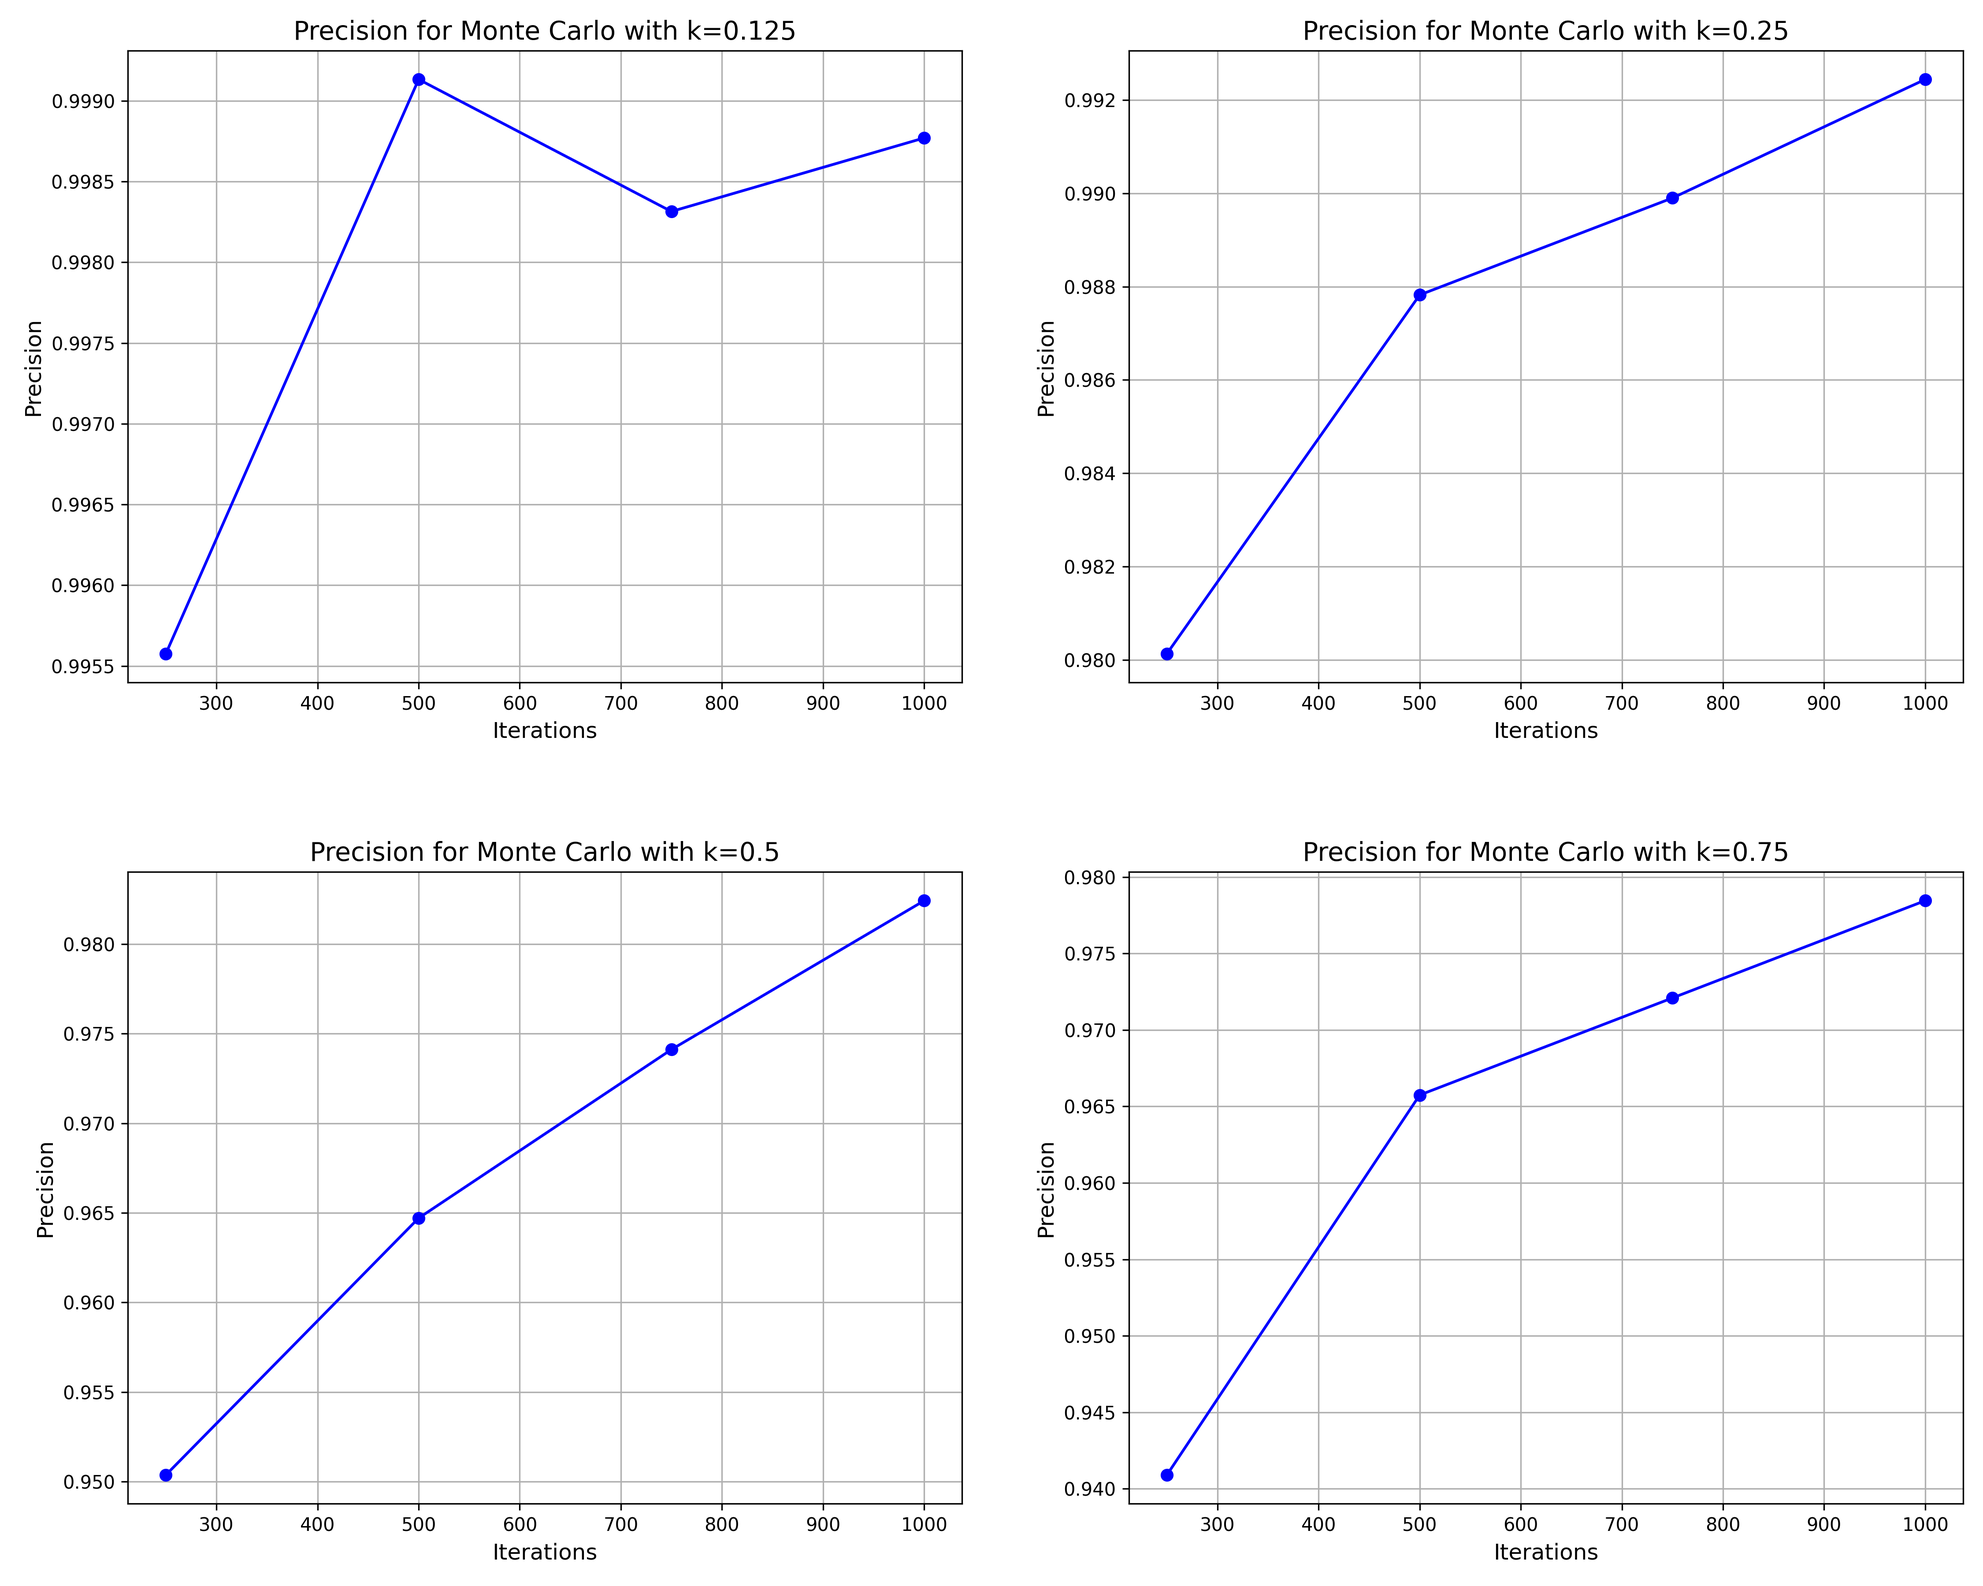
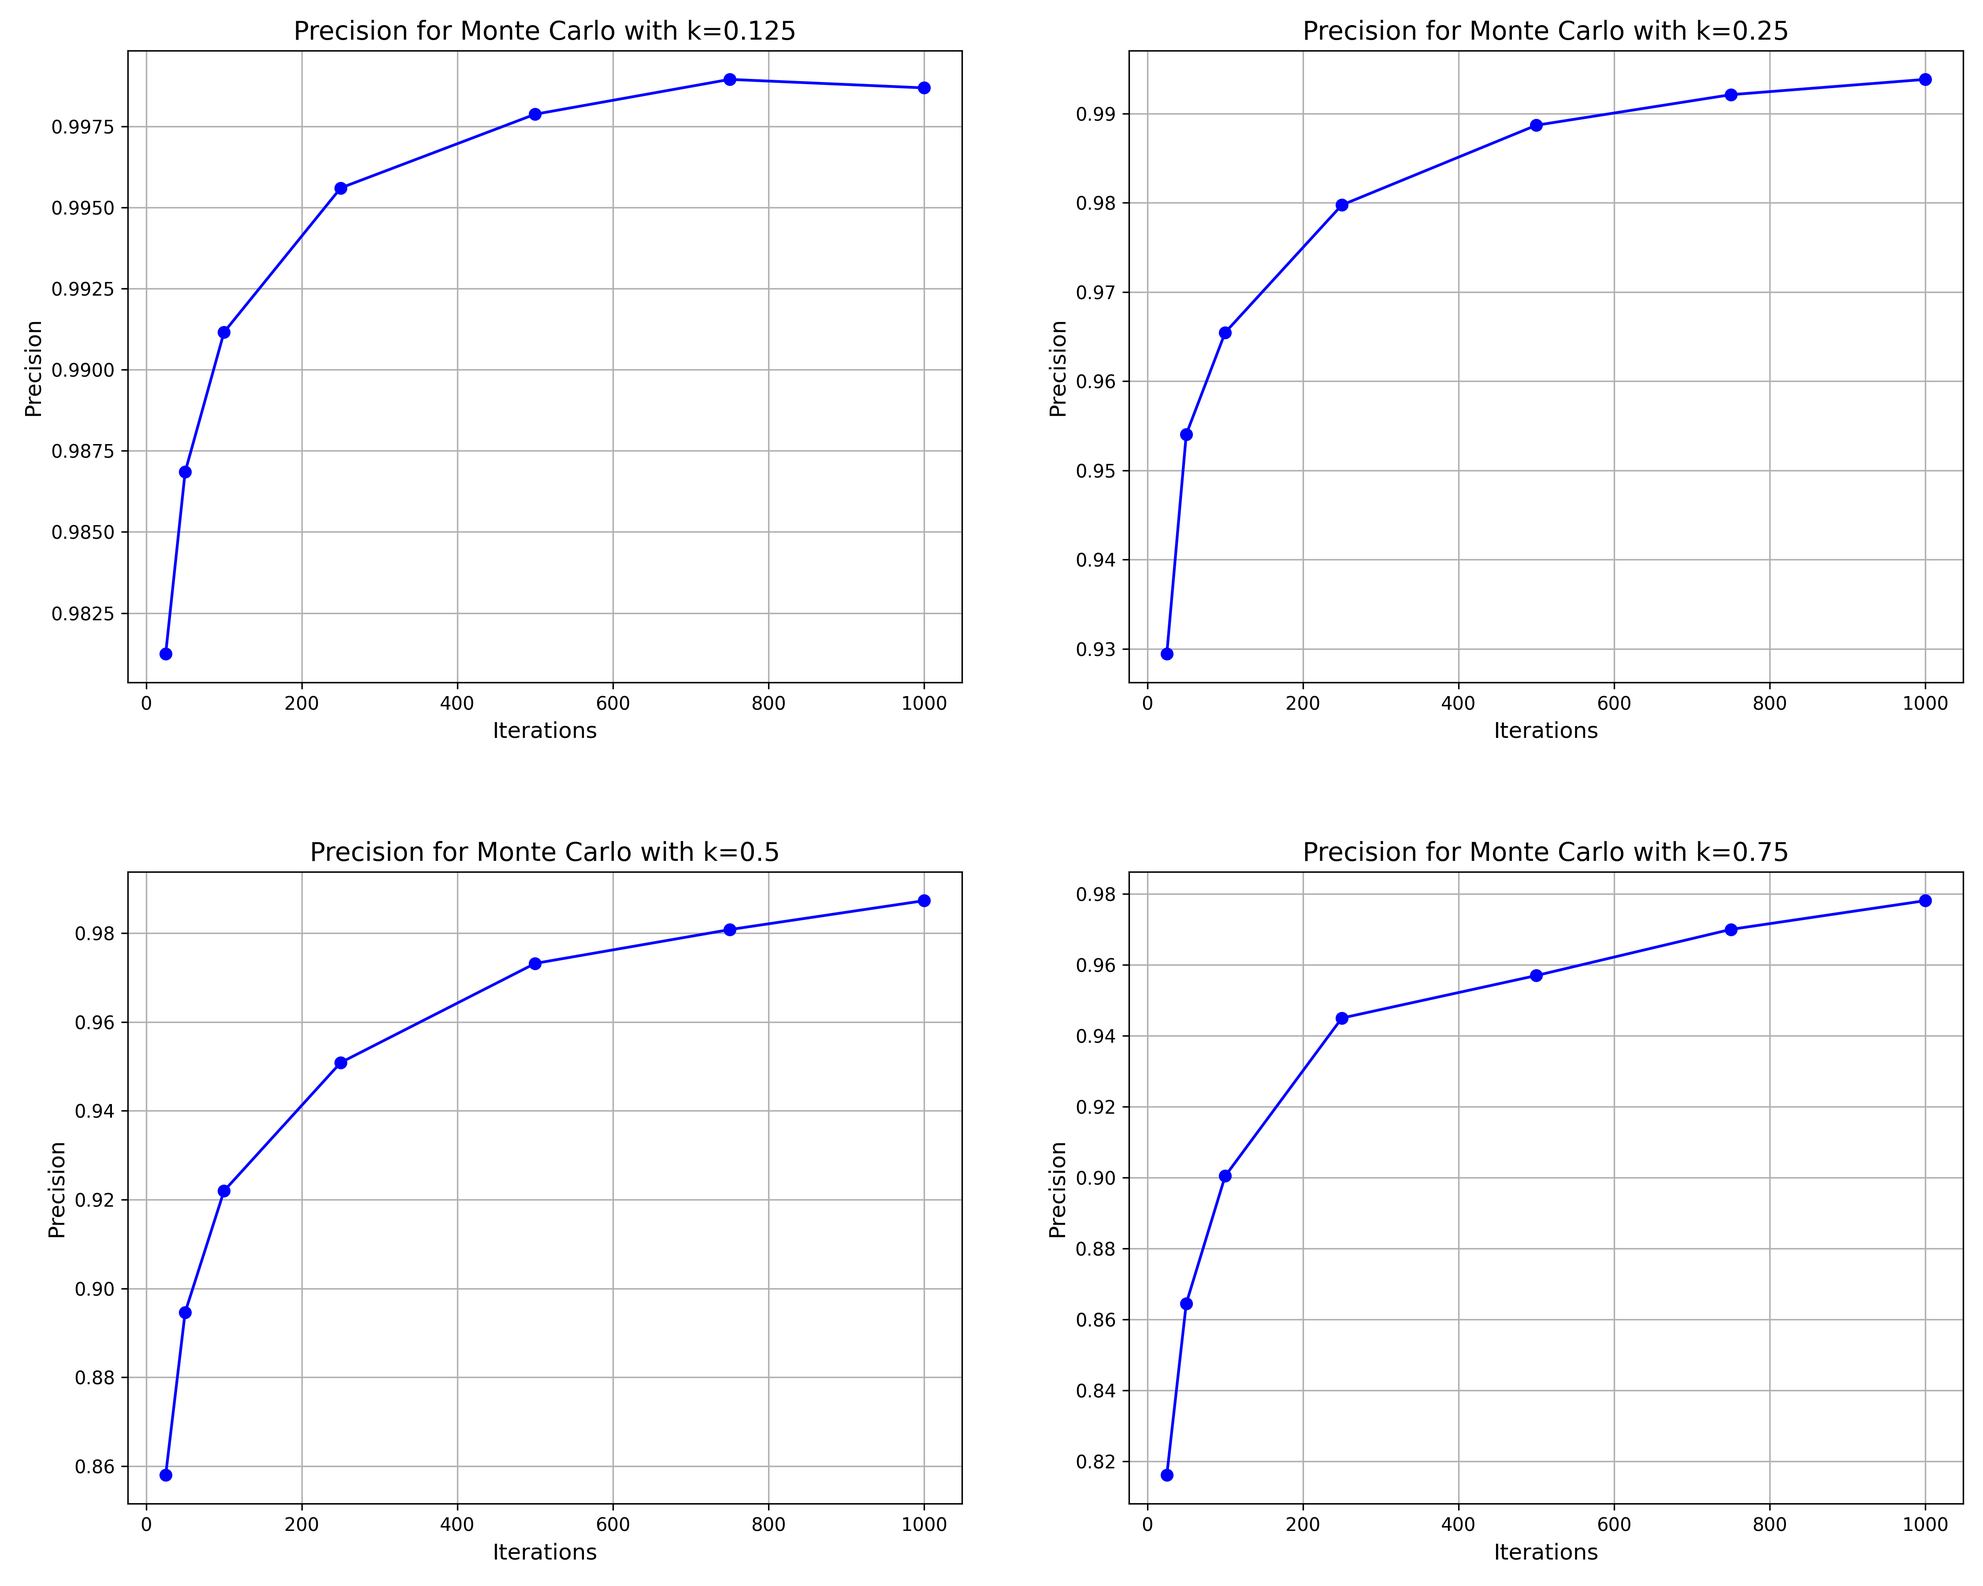
feat: monte carlo better tests

diff --git a/code/algorithms.py b/code/algorithms.py
@@ -4,7 +4,7 @@ from tqdm import tqdm
 import time
 import math
 import random
-
+import hashlib
 class algorithms:
     # - G: the graph to test (networkx graph object)
 
@@ -181,7 +181,7 @@ class algorithms:
         return max_set, op
     
     @staticmethod
-    def randomized_maximum_weight_independent_set(G, iterations=1000, restart_prob=0.1):
+    def monte_carlo(G, iterations=1000):
         """
         Randomized algorithm to find a near-optimal maximum weight independent set.
         Combines randomness with weighted heuristics.
@@ -189,7 +189,6 @@ class algorithms:
         Args:
             G: A graph with weights on nodes.
             iterations: Number of iterations for refinement.
-            restart_prob: Probability of restarting to introduce randomness (0-1).
 
         Returns:
             A tuple of the maximum independent set found and the operation count.
@@ -197,6 +196,7 @@ class algorithms:
 
         best_set = set()
         best_weight = 0
+        ops = 0  # Initialize operation count
 
         for _ in range(iterations):
             current_set = set()
@@ -208,28 +208,78 @@ class algorithms:
             excluded_nodes = set()
 
             for node in nodes:
+                ops += 1  # Increment for checking if node is excluded
                 if node in excluded_nodes:
                     continue
 
-                if random.random() > restart_prob:  # Favor deterministic selection
-                    current_set.add(node)
-                    current_weight += G.nodes[node]['weight']
-                    excluded_nodes.add(node)
-                    excluded_nodes.update(G.neighbors(node))
-                else:  # Add some randomness
-                    random_node = random.choice([n for n in nodes if n not in excluded_nodes])
-                    current_set.add(random_node)
-                    current_weight += G.nodes[random_node]['weight']
-                    excluded_nodes.add(random_node)
-                    excluded_nodes.update(G.neighbors(random_node))
+                current_set.add(node)
+                ops += 1  # Increment for adding a node to the independent set
 
-                    # Also consider the current node ('node')
-                    if node not in excluded_nodes:
-                        current_set.add(node)
-                        current_weight += G.nodes[node]['weight']
-                        excluded_nodes.add(node)
-                        excluded_nodes.update(G.neighbors(node))
+                current_weight += G.nodes[node]['weight']
+                ops += 1  # Increment for updating current weight
 
+                excluded_nodes.add(node)
+                ops += 1  # Increment for adding a node to the excluded set
+
+                excluded_nodes.update(G.neighbors(node))
+                ops += len(list(G.neighbors(node)))  # Increment for updating neighbors
+
+            # Update the best set if the current set is better
+            if current_weight > best_weight:
+                best_set = current_set
+                best_weight = current_weight
+                ops += 1  # Increment for updating the best solution
+
+        return best_set, ops
+
+    @staticmethod
+    def monte_carlo_with_filter(G, iterations=1000, hash_size=100000):
+        """
+        Monte Carlo algorithm with a mechanism to avoid repeating the same node orders.
+
+        Args:
+            G: A graph with weights on nodes.
+            iterations: Number of iterations for refinement.
+            hash_size: Maximum size of the Bloom-like hash storage.
+
+        Returns:
+            A tuple of the maximum independent set found and the operation count.
+        """
+        best_set = set()
+        best_weight = 0
+
+        # Initialize a set to store hashes of processed node orders
+        processed_hashes = set()
+
+        for _ in range(iterations):
+            # Generate a random order of nodes
+            nodes = list(G.nodes)
+            random.shuffle(nodes)
+
+            # Create a hash of the sorted node order
+            nodes_hash = hashlib.md5(str(nodes).encode()).hexdigest()
+
+            # Check if this order has already been processed
+            if nodes_hash in processed_hashes:
+                continue  # Skip this iteration to avoid duplication
+
+            # Add the hash to the processed set
+            processed_hashes.add(nodes_hash)
+            if len(processed_hashes) > hash_size:  # Optionally cap the size
+                processed_hashes.pop()  # Remove an arbitrary element to maintain size
+            
+            # Initialize current independent set and weight
+            current_set = set()
+            current_weight = 0
+            excluded_nodes = set()
+
+            for node in nodes:
+                if node in excluded_nodes:
+                    continue
+                current_set.add(node)
+                current_weight += G.nodes[node]['weight']
+                excluded_nodes.add(node)
+                excluded_nodes.update(G.neighbors(node))
 
             # Update the best set if the current set is better
             if current_weight > best_weight:
@@ -237,7 +287,6 @@ class algorithms:
                 best_weight = current_weight
 
         return best_set, _
-
     
     @staticmethod
     # Greedy algorithm with random selection factor

diff --git a/code/utils.py b/code/utils.py
@@ -105,7 +105,7 @@ class utils:
     # - n_max: the maximum number of nodes a test graph can have
     # - sample_size: the number of nodes to increment by in each iteration
     # - stored_graphs: whether to use pre-generated graphs
-    def stress_test(func, p, max_time_minutes, filename="stress_test_results.csv", save_results=True, n_max=1000, sample_size=5, stored_graphs=True, iterations=None, restart_probability=None):
+    def stress_test(func, p, max_time_minutes, filename="stress_test_results.csv", save_results=True, n_max=1000, sample_size=5, stored_graphs=True, iterations=None):
         """Runs a stress test for a single p value and optionally saves the results to a specified CSV file."""
         max_time_seconds = max_time_minutes * 60
         stored_graphs_filename = f"../graphs/graphs_p_{p}.pkl"
@@ -120,12 +120,12 @@ class utils:
             file = open(filename, mode='w', newline='')
             writer = csv.writer(file)
             # Write CSV header
-            writer.writerow(["Node Count", "Number of Operations", "Total Weight", "Execution Time (seconds)", "Solution"])
+            writer.writerow(["Node Count", "Number of Operations", "Total Weight", "Execution Time (seconds)", "Solution Size", "Solution"])
         else:
             file = None
             writer = None
 
-        print("  n  | No of Operations | Total Weight | Time (s) | Solution ")
+        print("  n  | No of Operations | Total Weight | Time (s) | Solution Size | Solution ")
         
         # Stress test loop
         n = sample_size
@@ -139,7 +139,7 @@ class utils:
             # Measure the time taken by the function on the generated graph
             start = time.time()
             if iterations is not None:
-                result, op = func(G, iterations=iterations, restart_prob=restart_probability)
+                result, op = func(G, iterations=iterations)
             else:
                 result, op = func(G)
             end = time.time()
@@ -149,16 +149,17 @@ class utils:
 
             # Calculate the total weight of the MWIS set
             total_weight = sum(G.nodes[node]['weight'] for node in result)
+            solution_size = len(result)
 
             # Convert the set to a string
             result_str = str(result)
             
             # Write results to CSV if saving is enabled
             if save_results:
-                writer.writerow([n, op, total_weight, elapsed_time , result_str])
+                writer.writerow([n, op, total_weight, elapsed_time, solution_size, result_str])
             
             # Print the result for the current size
-            print(f"{n:4} | {op:16} | {total_weight:12} | {elapsed_time:8.6f} | {result_str} ")
+            print(f"{n:4} | {op:16} | {total_weight:12} | {elapsed_time:8.6f} | {solution_size:13} | {result_str} ")
             
             # Stop if the elapsed time exceeds the maximum allowed time
             if elapsed_time > max_time_seconds:
@@ -176,7 +177,7 @@ class utils:
     def full_stress_test(func, p_values=[0.125, 0.25, 0.5, 0.75], max_time_minutes=2, 
                         base_filename="full_stress_test_results", save_results=True, 
                         n_max=1000, sample_size=5, stored_graphs=True, 
-                        max_iterations=None, iteration_step=None, restart_probability=0.1):
+                        iterations=None):
         """
         Runs stress tests for a function across multiple p values and optionally iterations.
         Results are saved in a structured directory format.
@@ -193,9 +194,6 @@ class utils:
             max_iterations: Maximum iterations for algorithms that require them (optional).
             iteration_step: Incremental step for iterations (required if max_iterations is given).
         """
-        # Validate parameters for iteration-based algorithms
-        if max_iterations is not None and iteration_step is None:
-            raise ValueError("iteration_step must be specified if max_iterations is provided.")
 
         # Base directory for all results
         base_folder = f"../data/{base_filename}"
@@ -225,9 +223,9 @@ class utils:
             p_folder = os.path.join(base_folder, f"p_{int(p * 1000) if p == 0.125 else int(p * 100)}")
             os.makedirs(p_folder, exist_ok=True)
 
-            if max_iterations is not None:
+            if iterations is not None:
                 # Iteration-based testing
-                for iteration_count in range(iteration_step, max_iterations + 1, iteration_step):
+                for iteration_count in iterations:
                     print(f"  Testing with {iteration_count} iterations...")
 
                     # Generate a unique filename for this test
@@ -238,7 +236,7 @@ class utils:
                         func, p, max_time_minutes, filename=filename,
                         save_results=save_results, n_max=n_max,
                         sample_size=sample_size, stored_graphs=stored_graphs,
-                        iterations=iteration_count, restart_probability=restart_probability
+                        iterations=iteration_count
                     )
             else:                
                 # Generate a unique filename for this test

diff --git a/code/visualgraphs.py b/code/visualgraphs.py
@@ -13,7 +13,7 @@ import matplotlib
 k_full = [0.125, 0.25, 0.5, 0.75]
 k_values = [125, 25, 50, 75]
 
-iterations = [250, 500, 750, 1000]
+iterations = [25, 50, 100, 250, 500, 750, 1000]
 
 # File paths for the data
 OLD_EXHAUSTIVE_PATH = "../data/exhaustive_v1/exhaustive_v1_p_{}.csv"
@@ -21,7 +21,7 @@ EXHAUSTIVE_PATH = "../data/exhaustive/exhaustive_p_{}.csv"
 BIGGEST_WEIGHT_FIRST_PATH = "../data/biggest_weight_first_compare/biggest_weight_first_compare_p_{}.csv"
 SMALLEST_DEGREE_FIRST_PATH = "../data/smallest_degree_first_compare/smallest_degree_first_compare_p_{}.csv"
 WEIGHT_TO_DEGREE_PATH = "../data/weight_to_degree_compare/weight_to_degree_compare_p_{}.csv"
-MONTE_CARLO_PATH = "../data/randomized_maximum_weight_independent_set_compare/p_{}/results_{}.csv"
+MONTE_CARLO_PATH = "../data/monte_carlo_compare/p_{}/results_{}.csv"
 
 FULL_BIGGEST_WEIGHT_FIRST_PATH = "../data/biggest_weight_first/biggest_weight_first_p_{}.csv"
 FULL_SMALLEST_DEGREE_FIRST_PATH = "../data/smallest_degree_first/smallest_degree_first_p_{}.csv"
@@ -446,9 +446,11 @@ def exhaustive_vs_greedy_error_ratio_and_accuracy():
 def monte_carlo_precision():
     """ Check the results of the Monte Carlo algorithm and its precision, comparing the effect of iterations (Fig.8) """
     
-    # Initialize the plot grid (2x2 layout)
-    _, axs = plt.subplots(2, 2, figsize=(15, 12))  # 2x2 grid
-    axs = axs.flatten()  # Flatten the 2D array of axes to 1D for easier iteration
+    # Initialize the plot
+    plt.figure(figsize=(10, 7))  # Adjust the figure size
+
+    # Define a color palette for the different k values
+    colors = plt.cm.tab10(np.linspace(0, 1, len(k_values)))
 
     # Iterate through each k value
     for idx, k in enumerate(k_values):
@@ -461,26 +463,23 @@ def monte_carlo_precision():
             monte_carlo_weights = dataframes_randomized[MONTE_CARLO][k][i][TOTAL_WEIGHT].head(len(exhaustive_weights)).values
             precision = np.mean(monte_carlo_weights / exhaustive_weights)
             precision_values.append(precision)
+        
         # Plot the precision values for each iteration count
-        axs[idx].plot(iterations, precision_values, marker='o', color='blue', linestyle='-', linewidth=1.5)
-        
-        # Set plot labels and title
-        axs[idx].set_xlabel('Iterations', fontsize=12)
-        axs[idx].set_ylabel('Precision', fontsize=12)
-        axs[idx].set_title(f'Precision for Monte Carlo with k={k_full[idx]}', fontsize=14)
-        
-        # Set the grid for better readability
-        axs[idx].grid(True)
-        
-    # Adjust layout for the 2x2 grid
-    plt.tight_layout()
-    plt.subplots_adjust(wspace=0.2, hspace=0.3)  # Adjust horizontal and vertical space
-
+        plt.plot(iterations, precision_values, marker='o', linestyle='-', linewidth=1.5, label=f'k={k_full[idx]}', color=colors[idx])
+    
+    # Set plot labels, title, and legend
+    plt.xlabel('Iterations', fontsize=12)
+    plt.ylabel('Precision', fontsize=12)
+    plt.title('Monte Carlo Precision for Different k Values', fontsize=14)
+    plt.legend(title='k Values', fontsize=10, loc='best')  # Add a legend
+    plt.grid(True)  # Add grid for better readability
+    
     # Save or show the plot
-    plt.savefig('../images/monte_carlo_precision_grid_2x2.png', dpi=300)
+    plt.savefig('../images/monte_carlo_precision_single_plot.png', dpi=300)
     
     # Log the conclusion of the function
     print("monte_carlo_precision() - Done")
+
     
         
 if __name__ == "__main__":

diff --git a/code/tests.py b/code/tests.py
@@ -34,7 +34,7 @@ def full_test_with_iterations():
     """ Full test for algorithms that require iterations (randomized algorithms) """
     
     # Standard Randomized, Smaller For Comparing With Exhaustive
-    utils.full_stress_test(algorithms.randomized_maximum_weight_independent_set, base_filename="randomized_maximum_weight_independent_set_compare", n_max=800, stored_graphs=False, sample_size=1, max_iterations=1000, iteration_step=250)
+    utils.full_stress_test(algorithms.monte_carlo, base_filename="monte_carlo_compare", n_max=800, stored_graphs=False, sample_size=1, iterations=[25, 50, 100, 250, 500, 750, 1000])
     
 def quick_precision_test(name, algorithm, k, n, iterations=0):
     """ Quick test to check the precision of an algorithm """
@@ -45,7 +45,7 @@ def quick_precision_test(name, algorithm, k, n, iterations=0):
     
 def main():
     """ Main function """
-    #quick_precision_test("Monte Carlo", algorithms.randomized_maximum_weight_independent_set, 0.75, 100, 20)
+    #quick_precision_test("Monte Carlo", algorithms.monte_carlo, 0.75, 100, 20)
     #graph_creation()
     #full_test()
     full_test_with_iterations()
